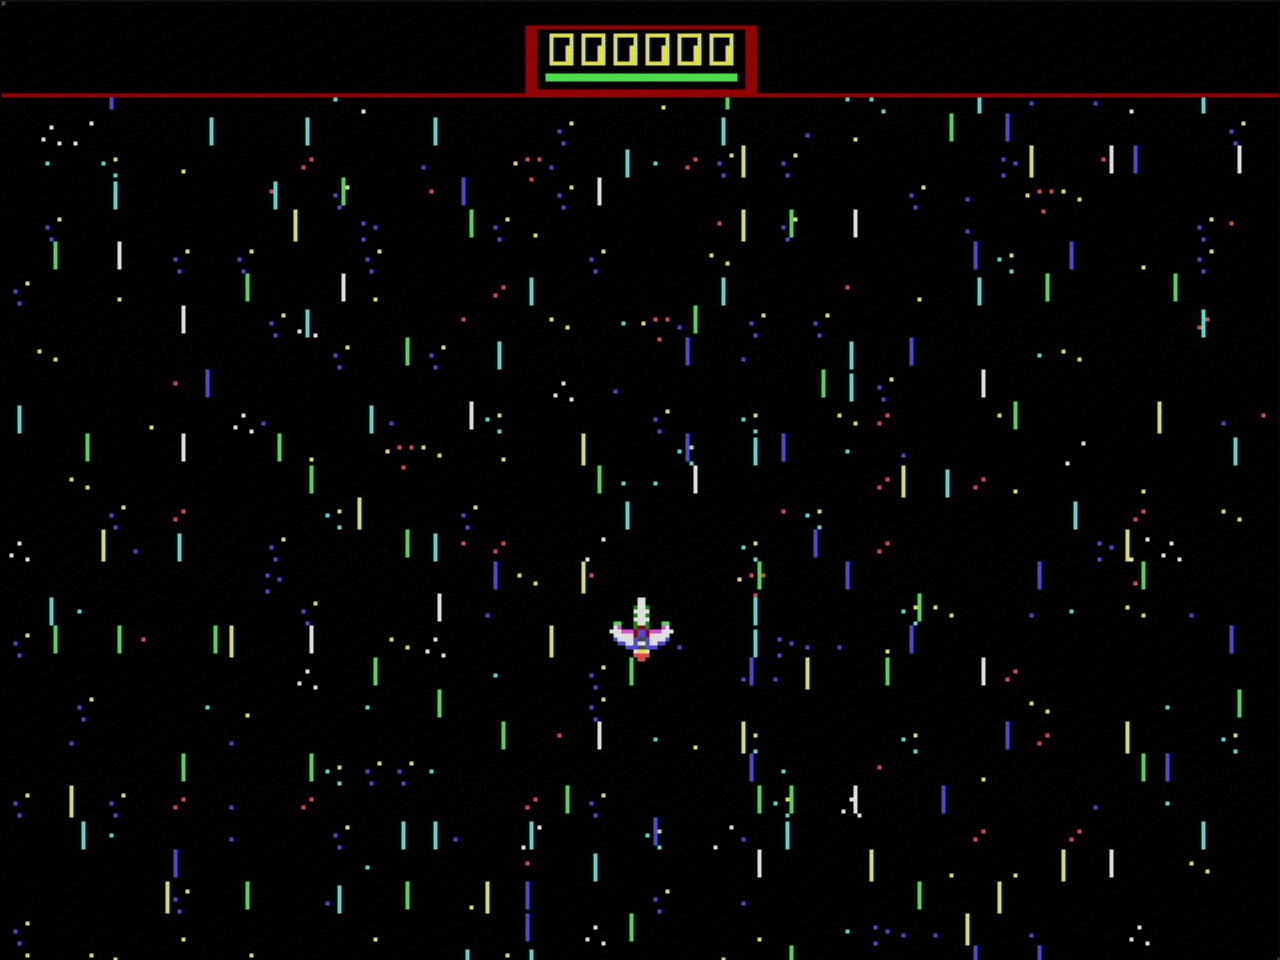
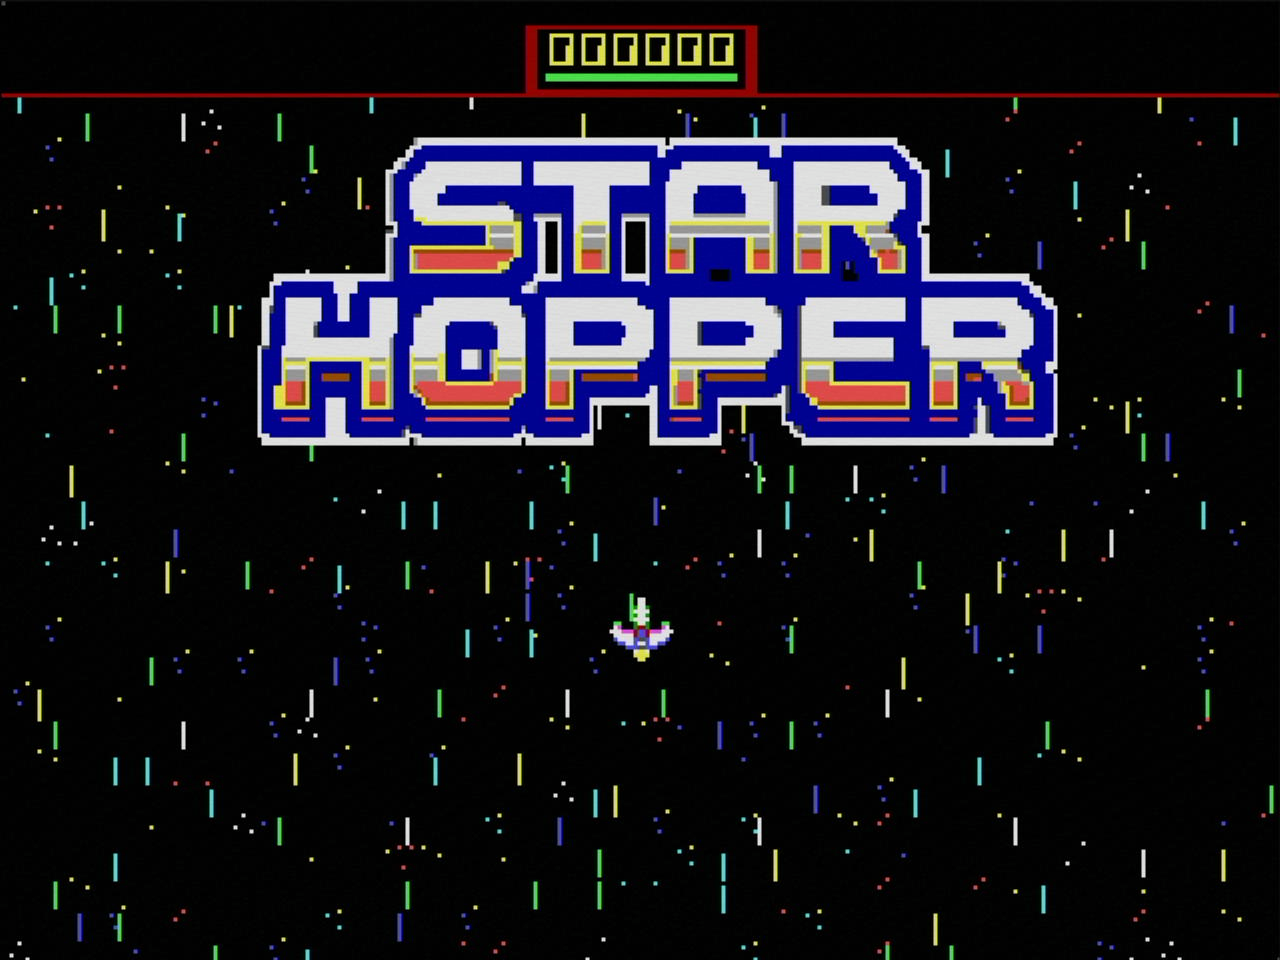
Update asset configurations and enhance README for projectiles and HUD

diff --git a/src/constants.h b/src/constants.h
@@ -30,7 +30,7 @@
 #define STARFIELD_HUD_HEIGHT    30                 // Height of starfield HUD in tiles
 
 #define STARFIELD_TILES_DATA   (STARFIELD_HUD_DATA + STARFIELD_HUD_SIZE) // Address for starfield tile bitmaps
-#define STARFIELD_TILES_SIZE    0x0600U            // 1536 bytes (48 tiles at 32 bytes each for 4bpp)
+#define STARFIELD_TILES_SIZE    0x1B80U             // 7040 bytes (220 tiles at 32 bytes each for 4bpp)
 
 #define PROJECTILE_DATA        (STARFIELD_TILES_DATA + STARFIELD_TILES_SIZE) // Address for projectile sprite data
 #define PROJECTILE_DATA_SIZE    0x0040U            // 64 bytes (2 frame 8x8 at 4bpp)

diff --git a/src/projectile.h b/src/projectile.h
@@ -4,7 +4,7 @@
 #include <stdint.h>
 
 // Frames between player shots (lower = faster fire rate)
-#define PLAYER_FIRE_RATE 8
+#define PLAYER_FIRE_RATE 10
 
 void projectile_init(void);
 void projectile_fire_player(int16_t x, int16_t y);

diff --git a/README.md b/README.md
@@ -82,7 +82,7 @@ int main(void)
 
 We have added ```vsync_last``` to keep track of the last vsync state.  In our main loop, we check if the current vsync state is the same as the last one, and if it is, we continue to the next iteration of the loop.  This effectively creates a loop that runs once per frame, synced to the vertical refresh of the display.  This is important for ensuring smooth graphics and avoiding screen tearing.
 
-If you build and run this code, you should see a blank screen on your Picocomputer.  This means that we have successfully initialized the graphics system and are running a main loop that is synced to the vertical refresh of the display.  In the next section, we will start drawing some pixels to the screen!  To exit the program hit ```CTRL + ALT + DEL``` or ```ALT + F4``` on the keyboard connected to your Picocomputer.
+If you build and run this code, you should see a blank screen on your Picocomputer.  This means that we have successfully initialized the graphics system and are running a main loop that is synced to the vertical refresh of the display.  In the next section, we will start drawing some pixels to the screen!  To exit the program hit ```ALT + F4``` on the keyboard connected to your Picocomputer.
 
 ## Adding a Sprite
 
@@ -882,12 +882,14 @@ sprite_mode5_update_engine(bool moving_down)
 ```
 This function creates a simple animation effect for the player's engine by changing the color of a specific palette entry over time.  When the player is moving down, we reset the animation and set the engine color to black.  When the player is not moving down, we cycle through a set of colors to create a glowing effect for the engine.  This is done by updating the palette entry in XRAM that the sprite uses for the engine glow.  This allows us to create a dynamic visual effect without needing to change the sprite data itself, which can save memory and allow for more complex animations.
 
+Once you have added this code, you should see the player sprite change its frame based on movement and the engine glow animating when the player is moving.  You can customize the animation logic and palette effects to create different visual styles for your game.
+
 
 ## Adding Bullets 
 
 We can add a new asset for our projectile sprite data, and then set up a new sprite configuration in XRAM for the projectiles.  We can then create a pool of projectile sprites that we can activate and deactivate as needed to create bullets that the player can shoot.  This is a common technique in game development called object pooling, which allows us to reuse a fixed number of sprite instances for our bullets without needing to constantly create and destroy sprites, which can be expensive in terms of performance.
 ```c
-rp6502_asset(RPDemo 0x11EF0 images/Projectiles_4bpp.bin
+rp6502_asset(RPDemo 0x13470 images/Projectiles_4bpp.bin)
 ```
 
 Here is the layout for the projectile sprite data and configuration in XRAM:
@@ -934,6 +936,13 @@ void sprite_mode5_init_projectiles(void) {
 }
 ```
 
+## Game Play Loop
+
+title screen
+
+game play
+
+game over
 
 
 